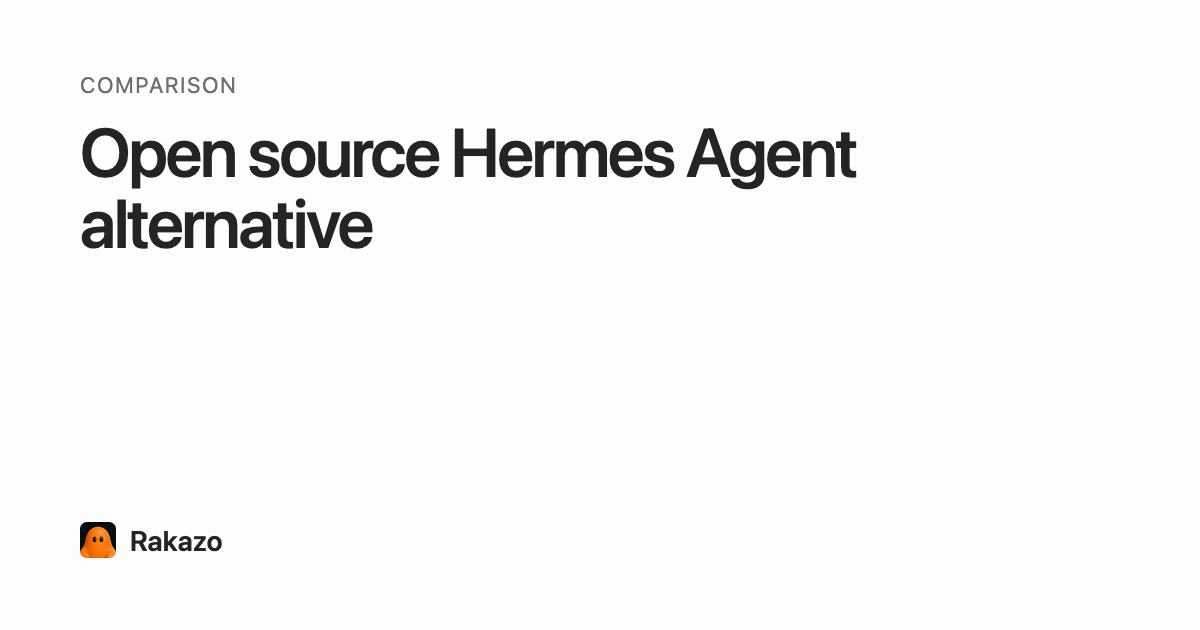
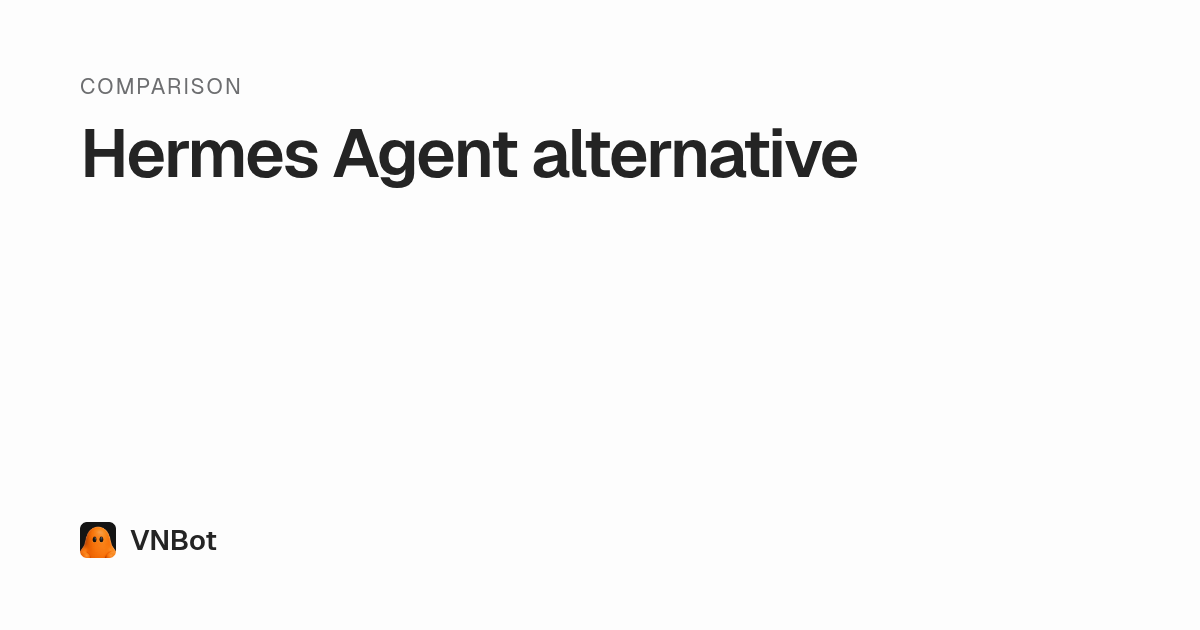
www: SUPPORT_EMAIL/DOWNLOAD_URL config, install-on-your-computer page, strip open-source from catalog text, regenerate OG

Changed region(s): [[0.0617, 0.181, 0.74, 0.3921], [0.0617, 0.1206, 0.2158, 0.1508], [0.0925, 0.8444, 0.185, 0.8746]]

diff --git a/apps/www/src/agent-content.ts b/apps/www/src/agent-content.ts
@@ -8,7 +8,7 @@ import {
   getHomeCopy,
 } from "./i18n/home";
 import { roundupMarkdown } from "./roundup";
-import { APP_URL, SITE_URL } from "./site";
+import { APP_URL, SITE_URL, SUPPORT_EMAIL } from "./site";
 
 export const AGENT_DISCOVERY_LINKS =
   '</llms.txt>; rel="describedby"; type="text/plain", </.well-known/ai-catalog.json>; rel="ai-catalog"; type="application/ai-catalog+json"';
@@ -82,16 +82,16 @@ VNBot is a Grok Bot alternative for persistent AI teammates: bots that can use a
 
 The project started from a simple premise: useful agents should be understandable and controllable by the people who run them. VNBot keeps routines in readable Markdown, supports multiple model providers, records actions in an audit log, and lets operators keep model keys, browser sessions, and deployment infrastructure under their own control.
 
-VNBot targets the web, macOS, Linux, iOS, and Android. Inbox Zero Inc. maintains VNBot and offers support at hello@rakazo.com.
+VNBot targets the web, macOS, Linux, iOS, and Android. Inbox Zero Inc. maintains VNBot and offers support at ${SUPPORT_EMAIL}.
 
 - [Support](${SITE_URL}/support/)
 `;
 
 export const SUPPORT_MARKDOWN = `# VNBot support
 
-For help with the VNBot mobile app or a hosted VNBot account, email [hello@rakazo.com](mailto:hello@rakazo.com). Include the email address on the account, what you expected to happen, and any error message you saw. Never send passwords, API keys, access tokens, or other secrets.
+For help with the VNBot mobile app or a hosted VNBot account, email [${SUPPORT_EMAIL}](mailto:${SUPPORT_EMAIL}). Include the email address on the account, what you expected to happen, and any error message you saw. Never send passwords, API keys, access tokens, or other secrets.
 
-Hosted users can permanently delete their account and associated personal Space data from the Account screen in the VNBot app, or on the web at [vnbot.run](${APP_URL}) under Settings → Account. Without access to the app, email [hello@rakazo.com](mailto:hello@rakazo.com) from the account's email address to ask us to delete it. Sign-in security records are kept for up to 90 days.
+Hosted users can permanently delete their account and associated personal Space data from the Account screen in the VNBot app, or on the web at [vnbot.run](${APP_URL}) under Settings → Account. Without access to the app, email [${SUPPORT_EMAIL}](mailto:${SUPPORT_EMAIL}) from the account's email address to ask us to delete it. Sign-in security records are kept for up to 90 days.
 `;
 
 export const PRIVACY_MARKDOWN = `# VNBot privacy
@@ -108,7 +108,7 @@ Permission records include the recipient, Space, disclosure version, and time. C
 
 Services we select must provide protection equal to or greater than the safeguards in our complete policy, including limited processing purposes, security, retention, and deletion protections. We review provider terms and safeguards before enabling a provider. Self-hosted operators are responsible for the services they select and their agreements. Provider terms govern processing and retention after receipt; provider policy links are available in AI data sharing and in the complete policy.
 
-Hosted users can delete their account and associated personal Space data from Account. In self-hosted deployments, the server operator controls information sent to that deployment. For privacy requests, email [hello@rakazo.com](mailto:hello@rakazo.com).
+Hosted users can delete their account and associated personal Space data from Account. In self-hosted deployments, the server operator controls information sent to that deployment. For privacy requests, email [${SUPPORT_EMAIL}](mailto:${SUPPORT_EMAIL}).
 
 Read the [complete privacy policy](${SITE_URL}/privacy/) for account information, other service providers, retention, deletion, security, international transfers, children, and your rights.
 `;
@@ -121,7 +121,7 @@ These terms are an agreement between you and Inbox Zero Inc. for the VNBot servi
 
 You are responsible for your account and for actions your bots take on your behalf, including in scheduled routines; give bots only the access they need and require approval for actions that are hard to undo. AI output can be wrong, so review it before relying on it, and do not use the Service where an error could cause serious harm. Do not use the Service to break the law, send spam or malware, access systems without authorization, abuse its computers, or violate the terms of connected providers. You keep ownership of your content and bot output, and you pay any fees charged by third-party services, including usage on your own API keys.
 
-Free trials convert to a paid plan when they end unless cancelled before then. Fair use on hosted plans is up to 100 computer-hours a month and 5 computers running at once per account; computers sleep when idle, there are no charges for computer use beyond the plan, and we may slow or pause usage beyond these limits. Self-hosted deployments have no such limits. Paid plans renew automatically until cancelled and are charged through Stripe. Cancel at any time from billing settings or by emailing [hello@rakazo.com](mailto:hello@rakazo.com); access continues until the end of the paid period. Payments are non-refundable and not prorated except where required by law. Charges made in error are refunded when reported within 30 days. If we close your account or stop offering the Service for reasons other than a violation of these terms, we refund prepaid fees for the unused period. Consumers in the EU and UK can withdraw from a new subscription within 14 days and are refunded less the value of the Service already provided.
+Free trials convert to a paid plan when they end unless cancelled before then. Fair use on hosted plans is up to 100 computer-hours a month and 5 computers running at once per account; computers sleep when idle, there are no charges for computer use beyond the plan, and we may slow or pause usage beyond these limits. Self-hosted deployments have no such limits. Paid plans renew automatically until cancelled and are charged through Stripe. Cancel at any time from billing settings or by emailing [${SUPPORT_EMAIL}](mailto:${SUPPORT_EMAIL}); access continues until the end of the paid period. Payments are non-refundable and not prorated except where required by law. Charges made in error are refunded when reported within 30 days. If we close your account or stop offering the Service for reasons other than a violation of these terms, we refund prepaid fees for the unused period. Consumers in the EU and UK can withdraw from a new subscription within 14 days and are refunded less the value of the Service already provided.
 
 The Service is provided as is. Our liability is limited to the greater of what you paid us in the previous 12 months or US$100, except where the law does not allow a limit. Delaware law governs these terms.
 
@@ -144,7 +144,7 @@ VNBot Cloud at ${APP_URL} is in beta. Self-hosting is also available. Do not sen
 
 1. Confirm deployment choices and any host-level commands with the user before changing their machine.
 2. Keep secrets in local environment configuration rather than tracked files.
-3. Send support requests to [hello@rakazo.com](mailto:hello@rakazo.com).
+3. Send support requests to [${SUPPORT_EMAIL}](mailto:${SUPPORT_EMAIL}).
 
 ## Canonical resources
 

diff --git a/apps/www/src/guide.ts b/apps/www/src/guide.ts
@@ -1,4 +1,4 @@
-import { SITE_URL } from "./site";
+import { DOWNLOAD_URL, OPENCLAW_ALTERNATIVE_PATH, SITE_URL, SUPPORT_EMAIL } from "./site";
 
 export const OPENCLAW_DOCS_URL = "https://docs.openclaw.ai/";
 export const OPENCLAW_GETTING_STARTED_URL = "https://docs.openclaw.ai/start/getting-started";
@@ -16,6 +16,37 @@ export type ComparisonRow = {
   rakazo: string;
   openclaw: string;
 };
+
+export const SELF_HOST_H1 = "Install VNBot on your computer";
+export const SELF_HOST_TITLE = "Install VNBot on Your Computer – VNBot";
+export const SELF_HOST_DESCRIPTION =
+  "Run VNBot on your own Mac, PC, or VPS. Your chats and data stay on your machine. Download the app and follow four short steps.";
+
+export const SELF_HOST_STEPS = [
+  { title: "Download VNBot", body: "Get the app for your computer from the download page." },
+  { title: "Choose This computer", body: "Open the app and pick This computer. VNBot starts on your machine." },
+  { title: "Create your account", body: "The first account you create owns this install." },
+  { title: "Connect a model", body: "Use your own key, or a model server running on your machine." },
+] as const;
+
+export const SELF_HOST_REQUIREMENTS =
+  "VNBot runs its bot computers in Docker, so install Docker first. Leave the machine on if bots should keep running routines.";
+
+export const SELF_HOST_SERVER =
+  "For an always-on machine, such as a Mac mini or a VPS, install VNBot there the same way. From other devices, choose Existing instance in the desktop app or Use a custom server in the mobile app and enter its https address.";
+
+export const SELF_HOST_FAQS: readonly FaqItem[] = [
+  {
+    question: "Where does my data live?",
+    answer:
+      "Chats, bot files, browser profiles, and the audit log stay on your computer. Content you send to a model provider is processed by that provider under its terms. You choose the provider and the keys.",
+  },
+  {
+    question: "What does it cost?",
+    answer:
+      "There is no seat fee for running VNBot on your own computer. You pay the model provider you connect.",
+  },
+];
 
 export const OPENCLAW_H1 = "OpenClaw alternative";
 export const OPENCLAW_TITLE = "OpenClaw Alternative – VNBot";
@@ -177,6 +208,34 @@ function comparisonMarkdown(): string {
   );
   return [header, ...rows].join("\n");
 }
+
+export const SELF_HOST_MARKDOWN = `# ${SELF_HOST_H1}
+
+> Run VNBot on your own Mac, PC, or VPS. Your chats and data stay on your machine.
+
+## Steps
+
+${SELF_HOST_STEPS.map((step, index) => `${index + 1}. **${step.title}.** ${step.body}`).join("\n")}
+
+[Download VNBot](${DOWNLOAD_URL})
+
+## Before you start
+
+${SELF_HOST_REQUIREMENTS}
+
+## Always-on machine
+
+${SELF_HOST_SERVER} For help, email [${SUPPORT_EMAIL}](mailto:${SUPPORT_EMAIL}).
+
+## FAQ
+
+${faqMarkdown(SELF_HOST_FAQS)}
+
+## Related
+
+- [Home](${SITE_URL}/)
+- [OpenClaw comparison](${SITE_URL}${OPENCLAW_ALTERNATIVE_PATH})
+`;
 
 export const OPENCLAW_RELATED = [
   { href: "/grok-bot-alternative/", label: "Grok Bot alternative" },

diff --git a/apps/www/src/catalog-text.ts b/apps/www/src/catalog-text.ts
@@ -1,0 +1,38 @@
+const OPEN_SOURCE = String.raw`open[\s-]?source(?:d)?`;
+// Marks a spot where a sentence now starts, so the next letter can be capitalized.
+const SENTENCE_START = "\u0000";
+
+function removed(_match: string, offset: number, whole: string): string {
+  return offset === 0 || /[.!?]\s*$/.test(whole.slice(0, offset)) ? SENTENCE_START : "";
+}
+
+/** Drops "open source" from third-party catalog copy so the site never shows it. */
+export function stripOpenSource(text: string): string {
+  if (!new RegExp(`\\b${OPEN_SOURCE}\\b`, "iu").test(text)) return text;
+  return (
+    text
+      // "an open-source tool" -> "a tool"; pick a/an from the word that follows.
+      .replace(
+        new RegExp(`\\b(an?)\\s+${OPEN_SOURCE}\\s+(\\p{L})`, "giu"),
+        (_match, article: string, letter: string) => {
+          const chosen = /^[aeiou]/i.test(letter) ? "an" : "a";
+          const cased = article[0] === article[0].toUpperCase() ? `${chosen[0].toUpperCase()}${chosen.slice(1)}` : chosen;
+          return `${cased} ${letter}`;
+        },
+      )
+      .replace(new RegExp(`\\(\\s*${OPEN_SOURCE}\\s*\\)`, "giu"), "")
+      // "free and open source" -> "free"; "open source and free" -> "free".
+      .replace(new RegExp(`\\s+(?:and|&|or)\\s+${OPEN_SOURCE}\\b`, "giu"), "")
+      .replace(new RegExp(`\\b${OPEN_SOURCE}\\s+(?:and|&|or)\\s+`, "giu"), removed)
+      .replace(new RegExp(`\\b${OPEN_SOURCE}\\b\\s*`, "giu"), removed)
+      // "The platform is open source." -> "The platform."
+      .replace(/\s+(?:is|are|and|or|with)\s*(?=[.,;:!?]|$)/giu, "")
+      .replace(/\s+([,.;:!?)])/gu, "$1")
+      .replace(/\(\s+/gu, "(")
+      .replace(/,(?:\s*,)+/gu, ",")
+      .replace(/\s{2,}/gu, " ")
+      .replace(new RegExp(`${SENTENCE_START}(\\p{L})`, "gu"), (_match, letter: string) => letter.toUpperCase())
+      .replaceAll(SENTENCE_START, "")
+      .trim()
+  );
+}

diff --git a/apps/www/src/integrations.ts b/apps/www/src/integrations.ts
@@ -2,6 +2,7 @@ import { readFile } from "node:fs/promises";
 import type { PluginCategory } from "@rakazo/core";
 import { PLUGIN_CATEGORIES } from "@rakazo/core";
 import { z } from "zod";
+import { stripOpenSource } from "./catalog-text";
 import { CATALOG_URL, SITE_URL } from "./site";
 
 const IntegrationSchema = z.object({
@@ -21,6 +22,19 @@ const CatalogSchema = z.object({
 
 export type Integration = z.infer<typeof IntegrationSchema>;
 
+/** Catalog copy comes from third parties; every page and Markdown twin reads it through here. */
+function displayIntegration(integration: Integration): Integration {
+  return {
+    ...integration,
+    description: stripOpenSource(integration.description),
+    actions: integration.actions.map((action) => ({
+      ...action,
+      name: stripOpenSource(action.name),
+      description: stripOpenSource(action.description),
+    })),
+  };
+}
+
 /** Published weekly by a private sync job. `CATALOG_URL` may point at another URL or a local file. */
 async function loadCatalog(): Promise<Integration[]> {
   const source = process.env.CATALOG_URL?.trim() || CATALOG_URL;
@@ -31,7 +45,7 @@ async function loadCatalog(): Promise<Integration[]> {
           return response.text();
         })
       : await readFile(source, "utf8");
-    return CatalogSchema.parse(JSON.parse(text)).integrations;
+    return CatalogSchema.parse(JSON.parse(text)).integrations.map(displayIntegration);
   } catch (error) {
     // Production must not ship an empty catalog; offline local builds just skip the app pages.
     if (process.env.VERCEL_ENV === "production") throw error;

diff --git a/apps/www/src/catalog-text.test.ts b/apps/www/src/catalog-text.test.ts
@@ -1,0 +1,34 @@
+import { describe, expect, it } from "vitest";
+import { stripOpenSource } from "./catalog-text";
+
+describe("stripOpenSource", () => {
+  it.each([
+    ["An open-source tool for X", "A tool for X"],
+    ["An open source alternative to Y", "An alternative to Y"],
+    ["Acme is an open-source project management tool.", "Acme is a project management tool."],
+    ["Open source CRM for teams.", "CRM for teams."],
+    ["Great notes. Open-source editor for docs.", "Great notes. Editor for docs."],
+    ["A free and open-source wiki", "A free wiki"],
+    ["Open-source and free analytics", "Free analytics"],
+    ["Fast (open source) editor", "Fast editor"],
+    ["Uses open-source libraries, and more", "Uses libraries, and more"],
+    ["The platform is open source.", "The platform."],
+    ["Self-hosted, open-source, private", "Self-hosted, private"],
+    ["OPEN SOURCE chat", "Chat"],
+    ["Get Open Source Broker Setting", "Get Broker Setting"],
+  ])("rewrites %j", (input, expected) => {
+    expect(stripOpenSource(input)).toBe(expected);
+  });
+
+  it.each(["Send email from Gmail.", "Opens source files in the editor", "", "  keep  spacing  "])(
+    "leaves %j unchanged",
+    (input) => {
+      expect(stripOpenSource(input)).toBe(input);
+    },
+  );
+
+  it("never leaves the phrase behind", () => {
+    const messy = "Open Source, open-source and OpenSource tools (open source) are open sourced.";
+    expect(stripOpenSource(messy)).not.toMatch(/open[\s-]?source/i);
+  });
+});

diff --git a/apps/www/src/structured-data.ts b/apps/www/src/structured-data.ts
@@ -1,4 +1,4 @@
-import { SITE_NAME, SITE_URL } from "./site";
+import { SITE_NAME, SITE_URL, SUPPORT_EMAIL } from "./site";
 
 const LEGAL_NAME = "Inbox Zero Inc.";
 
@@ -29,11 +29,11 @@ export function homeStructuredData(input: HomeStructuredDataInput) {
         legalName: LEGAL_NAME,
         url: `${SITE_URL}/`,
         logo: `${SITE_URL}/brand/rakazo-mark.png`,
-        email: "hello@rakazo.com",
+        email: SUPPORT_EMAIL,
         contactPoint: {
           "@type": "ContactPoint",
           contactType: "customer support",
-          email: "hello@rakazo.com",
+          email: SUPPORT_EMAIL,
           url: `${SITE_URL}/support/`,
           availableLanguage: input.availableLanguages,
         },

diff --git a/apps/www/api/download.ts b/apps/www/api/download.ts
@@ -1,0 +1,19 @@
+import { DOWNLOAD_URL } from "../src/site.js";
+
+// Edge functions are bundled, which resolves the extensionless source imports.
+export const config = { runtime: "edge" };
+
+/** Redirects to the download page so the target can change without a site rebuild. */
+export function fetchDownload(): Response {
+  return new Response(null, {
+    status: 302,
+    headers: {
+      Location: DOWNLOAD_URL,
+      "Cache-Control": "public, max-age=0, s-maxage=300, stale-while-revalidate=86400",
+    },
+  });
+}
+
+export function GET(): Response {
+  return fetchDownload();
+}

diff --git a/apps/www/src/og-pages.ts b/apps/www/src/og-pages.ts
@@ -1,6 +1,6 @@
 import { ALTERNATIVES, ALTERNATIVES_HUB } from "./alternatives";
 import { GROK_ALTERNATIVE_H1 } from "./grok-alternative";
-import { OPENCLAW_H1 } from "./guide";
+import { OPENCLAW_H1, SELF_HOST_H1 } from "./guide";
 
 export type OgPage = {
   id: string;
@@ -19,6 +19,7 @@ export function ogPages(): OgPage[] {
     })),
     { id: "grok-bot-alternative", kicker: "Comparison", title: GROK_ALTERNATIVE_H1 },
     { id: "openclaw-alternative", kicker: "Comparison", title: OPENCLAW_H1 },
+    { id: "self-hosted-ai-agent", kicker: "Guide", title: SELF_HOST_H1 },
   ];
 }
 

diff --git a/apps/www/api/download.test.ts b/apps/www/api/download.test.ts
@@ -1,0 +1,15 @@
+import { describe, expect, it } from "vitest";
+import { DOWNLOAD_URL } from "../src/site";
+import { fetchDownload, GET } from "./download";
+
+describe("download redirect", () => {
+  it("redirects to the configured download page", () => {
+    const response = fetchDownload();
+    expect(response.status).toBe(302);
+    expect(response.headers.get("Location")).toBe(DOWNLOAD_URL);
+  });
+
+  it("serves the redirect on GET", () => {
+    expect(GET().headers.get("Location")).toBe(DOWNLOAD_URL);
+  });
+});

diff --git a/apps/www/src/site.ts b/apps/www/src/site.ts
@@ -6,6 +6,7 @@ export const SITE_DESCRIPTION =
 export const APP_URL = "https://vnbot.run";
 export const CATALOG_URL =
   "https://rakazo-public.fsn1.your-objectstorage.com/integrations/catalog.json";
+export const SUPPORT_EMAIL = "aiking.corp@gmail.com";
 export const DOWNLOAD_URL = "https://vnbot.run/#tai-ve";
 export const IOS_APP_URL = "https://apps.apple.com/app/rakazo/id6801531099";
 export const ANDROID_APK_URL = DOWNLOAD_URL;

diff --git a/apps/www/src/docs.ts b/apps/www/src/docs.ts
@@ -9,6 +9,10 @@ export const DOCS_NAV = [
       { slug: "fleet-management", label: "Bots that manage bots" },
     ],
   },
+  {
+    title: "Self-hosting",
+    pages: [{ slug: "install-on-your-computer", label: "Install VNBot on your computer" }],
+  },
 ] as const;
 
 export const DOCS_PAGES: { slug: string; label: string }[] = DOCS_NAV.flatMap((section) => [

diff --git a/vitest.config.ts b/vitest.config.ts
@@ -49,6 +49,8 @@ export default defineConfig({
       "apps/mobile/lib/**/*.test.{ts,tsx}",
       "apps/mobile/plugins/**/*.test.js",
       "apps/api/src/**/*.test.ts",
+      "apps/www/src/**/*.test.ts",
+      "apps/www/api/**/*.test.ts",
       "apps/worker/src/**/*.test.ts",
     ],
     testTimeout: 30_000,
